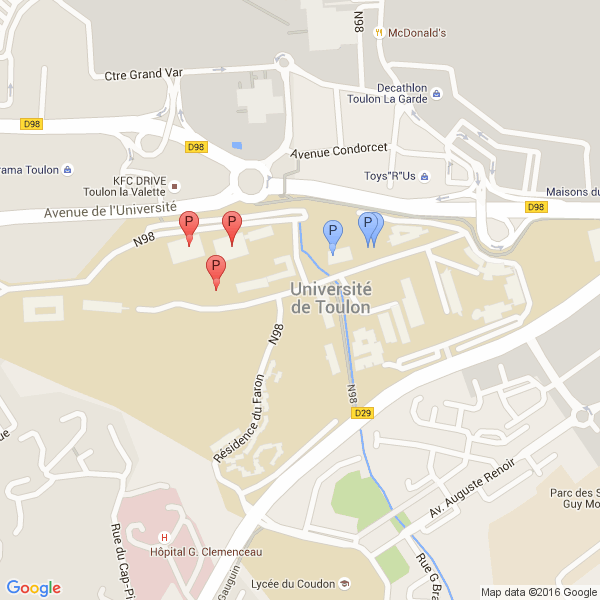
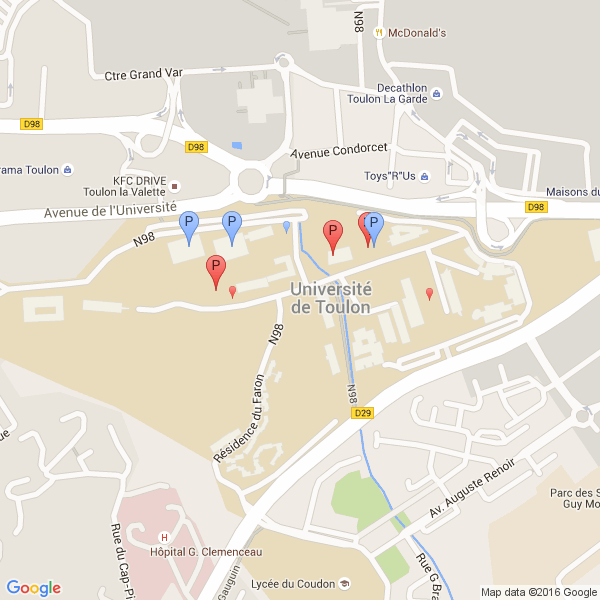
java Client map dynamique

diff --git a/javaClient/src/main/java/fr/univtln/groupc/Main.java b/javaClient/src/main/java/fr/univtln/groupc/Main.java
@@ -21,6 +21,8 @@ import fr.univtln.groupc.server.CServer;
 
 import javax.swing.*;
 
+import static java.lang.Thread.sleep;
+
 /*
 full document to display maps with the imageUrl link :
 
@@ -30,7 +32,7 @@ https://developers.google.com/maps/documentation/static-maps/
 
 public class Main {
 
-    public static void generateMap(final JFrame pFest, List<String> pBluePlayers, List<String> pRedPlayers, List<String> pBluePortals, List<String> pRedPortals) {
+    public static JFrame generateMap(final JFrame pFest, List<String> pBluePlayers, List<String> pRedPlayers, List<String> pBluePortals, List<String> pRedPortals) {
 
         try {
             String lImageUrl =
@@ -121,18 +123,16 @@ public class Main {
                 }
             }
         });
+        return pFest;
     }
 
-
-    public static void main(String[] args) throws IOException {
-
-        JFrame test = new JFrame("Google Maps");
-
+    public static JFrame generateFrame(JFrame lFrame){
         // Rest Requests
         System.out.println("main");
         Client c = Client.create();
         WebResource webResource = c.resource(CServer.BASE_URI);
-        String lJson = webResource.path("/portals").get(String.class);
+        String lPortalsJson = webResource.path("/portals").get(String.class);
+        String lPlayersJson = webResource.path("/players").get(String.class);
 
         ObjectMapper lMapper = new ObjectMapper();
         lMapper.configure(SerializationFeature.INDENT_OUTPUT, true);
@@ -149,8 +149,8 @@ public class Main {
         ArrayList<String> lRedPlayers = new ArrayList<String>();
 
         try {
-            lPortals = lMapper.readValue(lJson, lMapper.getTypeFactory().constructCollectionType(List.class, CPortalEntity.class));
-            lPlayers = lMapper.readValue(lJson, lMapper.getTypeFactory().constructCollectionType(List.class, CPlayerEntity.class));
+            lPortals = lMapper.readValue(lPortalsJson, lMapper.getTypeFactory().constructCollectionType(List.class, CPortalEntity.class));
+            lPlayers = lMapper.readValue(lPlayersJson, lMapper.getTypeFactory().constructCollectionType(List.class, CPlayerEntity.class));
 
         } catch (IOException e) {
             e.printStackTrace();
@@ -176,12 +176,12 @@ public class Main {
                     System.out.println("playerbleu");
                     System.out.println(bluePlayer);
                 }
+                else System.out.println("players vide");
             }
         }
 
         // Récuperation des portails présents dans la BD via REST
         for (CPortalEntity lPortalEntity : lPortals) {
-
             if (lPortalEntity.getTeam() != null) {
 
                 if (Objects.equals(lPortalEntity.getTeam().getColor(), "red")) {
@@ -189,7 +189,7 @@ public class Main {
                     lRedPortals.add(redPortal);
                     System.out.println("portal rouge");
                     System.out.println(redPortal);
-                    }
+                }
 
                 else if (Objects.equals(lPortalEntity.getTeam().getColor(), "blue")) {
                     bluePortal = String.valueOf(lPortalEntity.getLat()) + "," + String.valueOf(lPortalEntity.getLong());
@@ -197,11 +197,25 @@ public class Main {
                     System.out.println("portal bleu");
                     System.out.println(bluePortal);
                 }
+                else System.out.println("portals vide");
+
             }
+            else System.out.println("lPortalEntity.getTeam() == null");
         }
 
+        // Une fois les données REST récupérées, on genere à partir de ça notre map
+        lFrame = Main.generateMap(lFrame, lBluePlayers, lRedPlayers, lBluePortals, lRedPortals);
+        return lFrame;
+    }
 
-        Main.generateMap(test, lBluePlayers, lRedPlayers, lBluePortals, lRedPortals);
+    public static void main(String[] args) throws IOException, InterruptedException {
+        JFrame jFrame = new JFrame("Google Maps");
+
+        while (true) {
+            // On regenere la frame à chaque fois avec les nouvelles données proventante du serveur REST
+            jFrame = generateFrame(jFrame);
+            sleep(5000);
+        }
     }
 
 

diff --git a/javaRestServer/src/main/java/fr/univtln/groupc/entities/CKeyEntity.java b/javaRestServer/src/main/java/fr/univtln/groupc/entities/CKeyEntity.java
@@ -14,8 +14,7 @@ import java.io.Serializable;
 @Entity
 @Inheritance(strategy = InheritanceType.SINGLE_TABLE)
 @Table(name = "t_key", schema = "positron")
-@NamedQueries({@NamedQuery(name = CKeyEntity.GET_ALL, query = "select k from CKeyEntity k"),@NamedQuery(name = CKeyEntity.GET_BY_PORTAL, query = "select k from CKeyEntity k where k.mPortal=(select p from CPortalEntity p where p.mId=:id )")
-, @NamedQuery(name = CKeyEntity.GET_BY_PLAYER, query = "select k from CKeyEntity k where k in (select p.mObjects from CPlayerEntity p where p.mId = :mId)")})
+@NamedQueries({@NamedQuery(name = CKeyEntity.GET_ALL, query = "select k from CKeyEntity k"),@NamedQuery(name = CKeyEntity.GET_BY_PORTAL, query = "select k from CKeyEntity k where k.mPortal=(select p from CPortalEntity p where p.mId=:id )")})
 //@JsonDeserialize(as = CKeyEntity.class)
 @JsonIdentityInfo(generator = ObjectIdGenerators.PropertyGenerator.class, property = "id", scope = CKeyEntity.class)
 

diff --git a/javaRestServer/src/main/java/fr/univtln/groupc/services/CKeyService.java b/javaRestServer/src/main/java/fr/univtln/groupc/services/CKeyService.java
@@ -75,7 +75,7 @@ public class CKeyService {
         //return (List<CKeyEntity>)mCrudMethods.findWithNamedQuery(CKeyEntity.GET_KEY_BY_PORTAL, lMap);
 
         String lJsonValue = null;
-        List<CKeyEntity> lKeys = (List<CKeyEntity>)mCrudMethods.findWithNamedQuery(CKeyEntity.GET_KEY_BY_PORTAL, lMap);
+        List<CKeyEntity> lKeys = (List<CKeyEntity>)mCrudMethods.findWithNamedQuery(CKeyEntity.GET_BY_PORTAL, lMap);
         try {
             lJsonValue = mMapper.writeValueAsString(lKeys);
         } catch (IOException e) {

diff --git a/javaRestServer/src/test/java/fr/univtln/groupc/CJPATest.java b/javaRestServer/src/test/java/fr/univtln/groupc/CJPATest.java
@@ -63,6 +63,6 @@ public class CJPATest {
         CPlayerEntity lPlayer = new CPlayerEntity.CPlayerBuilder(41).nickname("raul").objects(lObjects).build();
         mCrud.create(lPlayer);
 
-        List<CKeyEntity> lKeysGotten = mCrud.findWithNamedQuery()
+        //List<CKeyEntity> lKeysGotten = mCrud.findWithNamedQuery();
     }
 }
